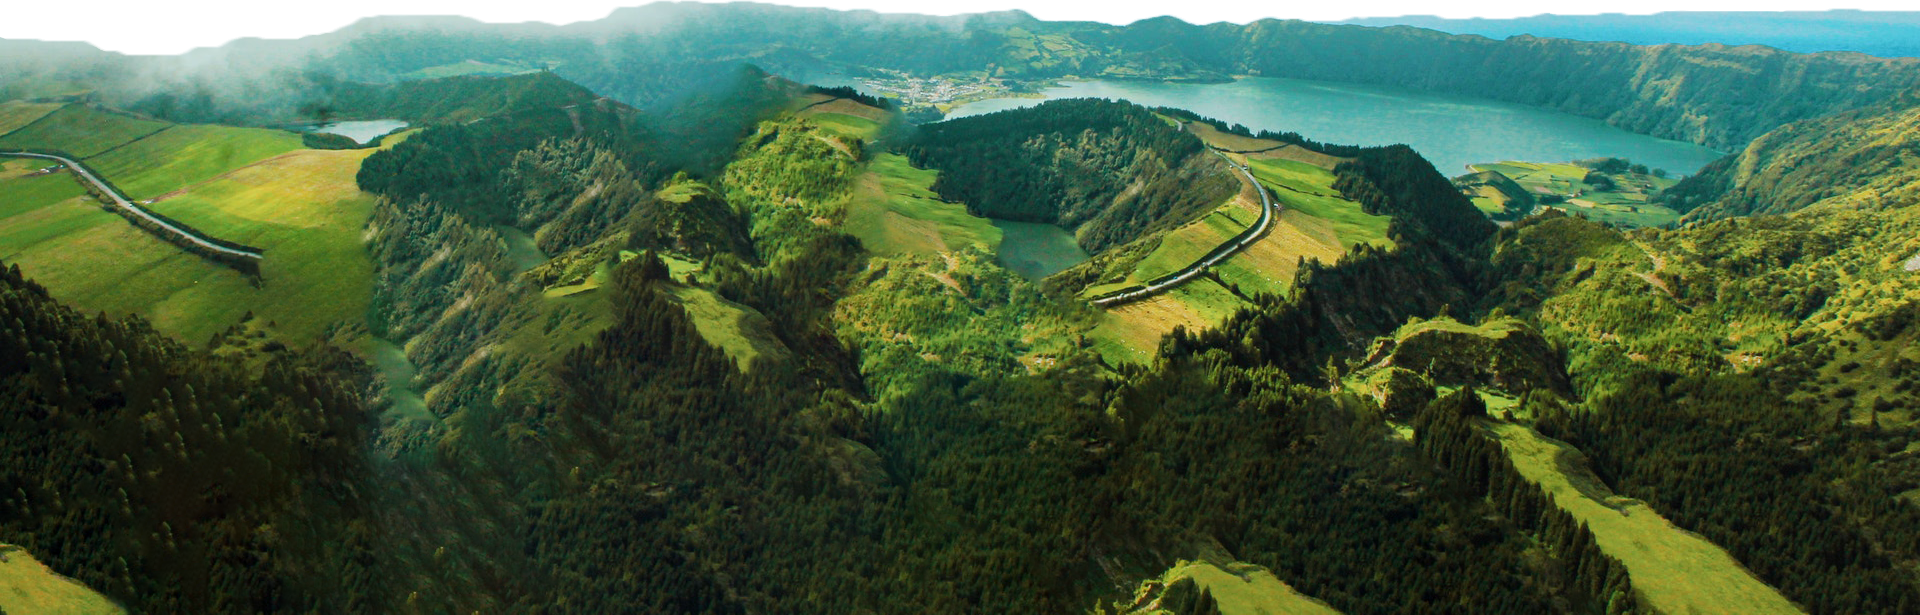
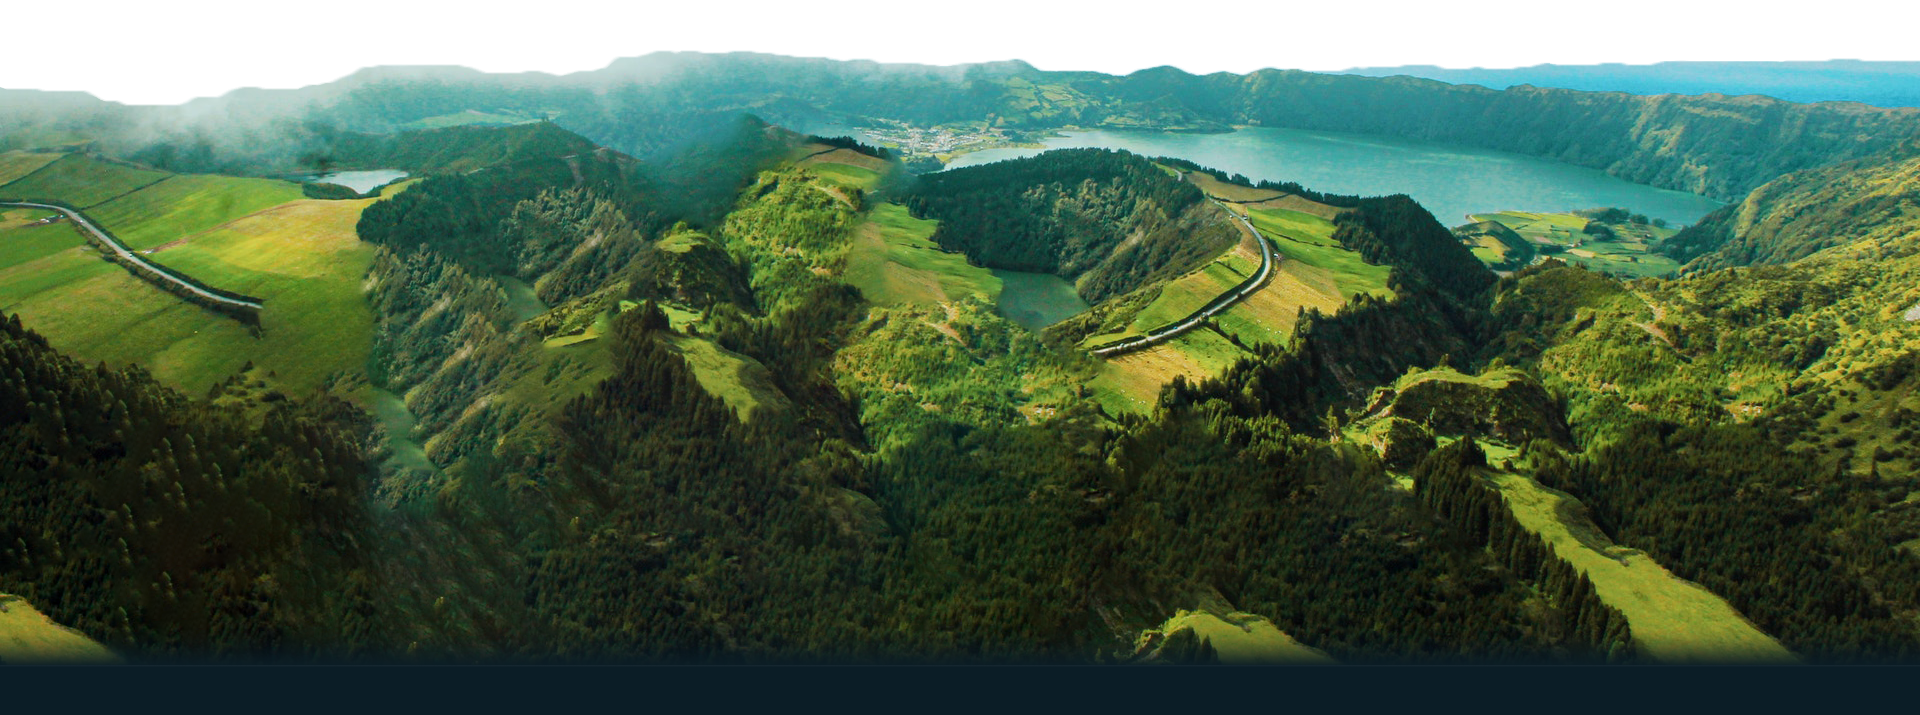
Improve background images and repsonsiveness

diff --git a/src/App.css b/src/App.css
@@ -1,55 +1,37 @@
 html {
-    background-color: #0b1d26
-}
-
-.App {
-    position: absolute;
-    top: 0%;
+    background-color: #0b1d26;
 }
 
 .bg-clouds {
+    z-index: -1;
     position: absolute;
     width: 100vw;
-    z-index: -1;
-    left: 0%;
-    top: 0%;
-    right: 0%;
-    bottom: 0%;
+    height: 1100px;
+    object-fit: cover;
 }
 
 .mg-mountains {
+    z-index: -1;
     position: absolute;
     width: 100vw;
-    z-index: -1;
-    left: 0%;
-    top: 600px;
-    right: 0%;
-    bottom: 0%;
+    top: 53%;
+    min-height: 500px;
+    object-fit: cover;
 }
 
 .fg-hill {
-    position: absolute;
-    width: 80vw;
     z-index: -1;
-    left: 0%;
-    top: 600px;
-    right: 0%;
-    bottom: 0%;
+    position: absolute;
+    width: 100vw;
+    top: 48%;
+    min-height: 800px;
+    object-fit: cover;
 }
 
 .gradient-top {
+    z-index: -1;
     position: absolute;
     width: 100vw;
     height: 600px;
-    z-index: -1;
     background-image: linear-gradient(165deg, rgba(19, 48, 43, 0.59) 0%, rgba(108, 108, 108, 0) 63.25%);
-}
-
-.gradient-middle {
-    position: absolute;
-    width: 100vw;
-    top: 930px;
-    height: 350px;
-    z-index: -1;
-    background-image: linear-gradient(180deg, rgba(11, 29, 38, 0) 0%, #0B1D26 63.25%);
 }

diff --git a/src/App.tsx b/src/App.tsx
@@ -8,12 +8,11 @@ import FgHill from './assets/hill-anna.png';
 
 function App() {
     return (
-        <div className="App">
+        <div className="app">
             <img className="bg-clouds" src={BgClouds} alt={"clouds"}/>
             <img className="mg-mountains" src={MgMountains} alt={"mountains"}/>
             <img className="fg-hill" src={FgHill} alt={"hill"}/>
             <div className="gradient-top"/>
-            <div className="gradient-middle"/>
             <StoryHeader
                 title={"Seid dabei auf unserem ersten großen Abenteuer"}
                 subtitle={"30 Tage Portugal & Spanien"}

diff --git a/src/components/story/StoryHeader.css b/src/components/story/StoryHeader.css
@@ -1,13 +1,13 @@
 .story-header {
-    width: 1013px;
+    width: 70%;
     height: 320px;
     display: flex;
     flex-direction: column;
     justify-content: flex-start;
     align-items: stretch;
     gap: 32px;
-    margin: 148.4px 85.7px 0 354.3px;
-    padding: 0;
+    padding-top: 220px;
+    padding-left: 20%;
 }
 
 .title {
